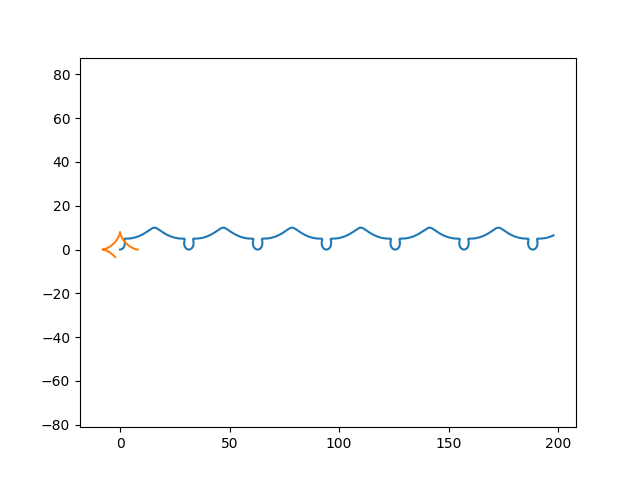
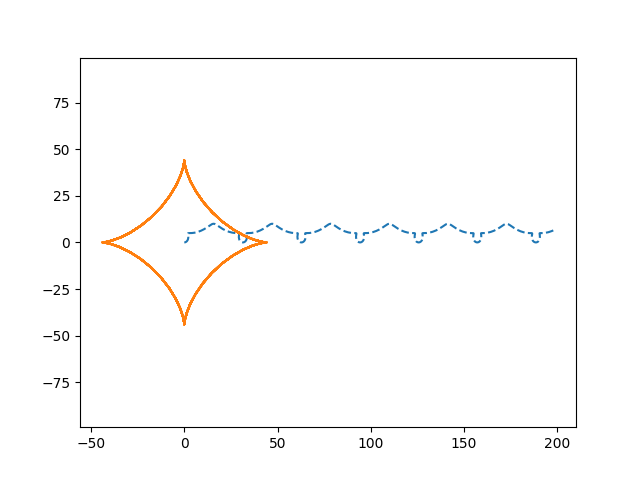
lab 7

diff --git a/lab_7_osn_task2.py b/lab_7_osn_task2.py
@@ -1,0 +1,24 @@
+import numpy as np
+import matplotlib.pyplot as plt
+from matplotlib.animation import FuncAnimation
+
+fig, ax = plt.subplots()
+
+anim_object = plt.plot([], [], 'o', lw=2)
+
+xdata, ydata = [0], [0]
+
+ax.set_xlim(-100, 100)
+ax.set_ylim(-100, 100)
+
+def circle(a, f):
+    for i in np.arange(0, 50, 1):
+        xdata.append(a * i * np.cos(f))
+        ydata.append(a * i * np.sin(f))
+        anim_object.set_data(xdata, ydata)
+    return anim_object
+
+ani = FuncAnimation(fig, circle, a=2, f=np.arange(0, 2 * np.pi, 0.1), interval=500)
+
+
+ani.save('circle.gif')

diff --git a/lab_7_osn_task1.py b/lab_7_osn_task1.py
@@ -7,7 +7,7 @@ def cikloida(R, t_min, t_max):
     x = R * (t - np.sin(t)**3)
     y = R * (1 - np.cos(t)**3)
 
-    plt.plot(x, y)
+    plt.plot(x, y, ls='--')
     plt.axis('equal')
     plt.savefig('cikloida.png')
 
@@ -24,4 +24,4 @@ def astroida(R, t_min, t_max):
     plt.axis('equal')
     plt.savefig('astroida.png')
 
-astroida(R=8, t_min=0, t_max=4)
+astroida(R=44, t_min=0, t_max=57)
